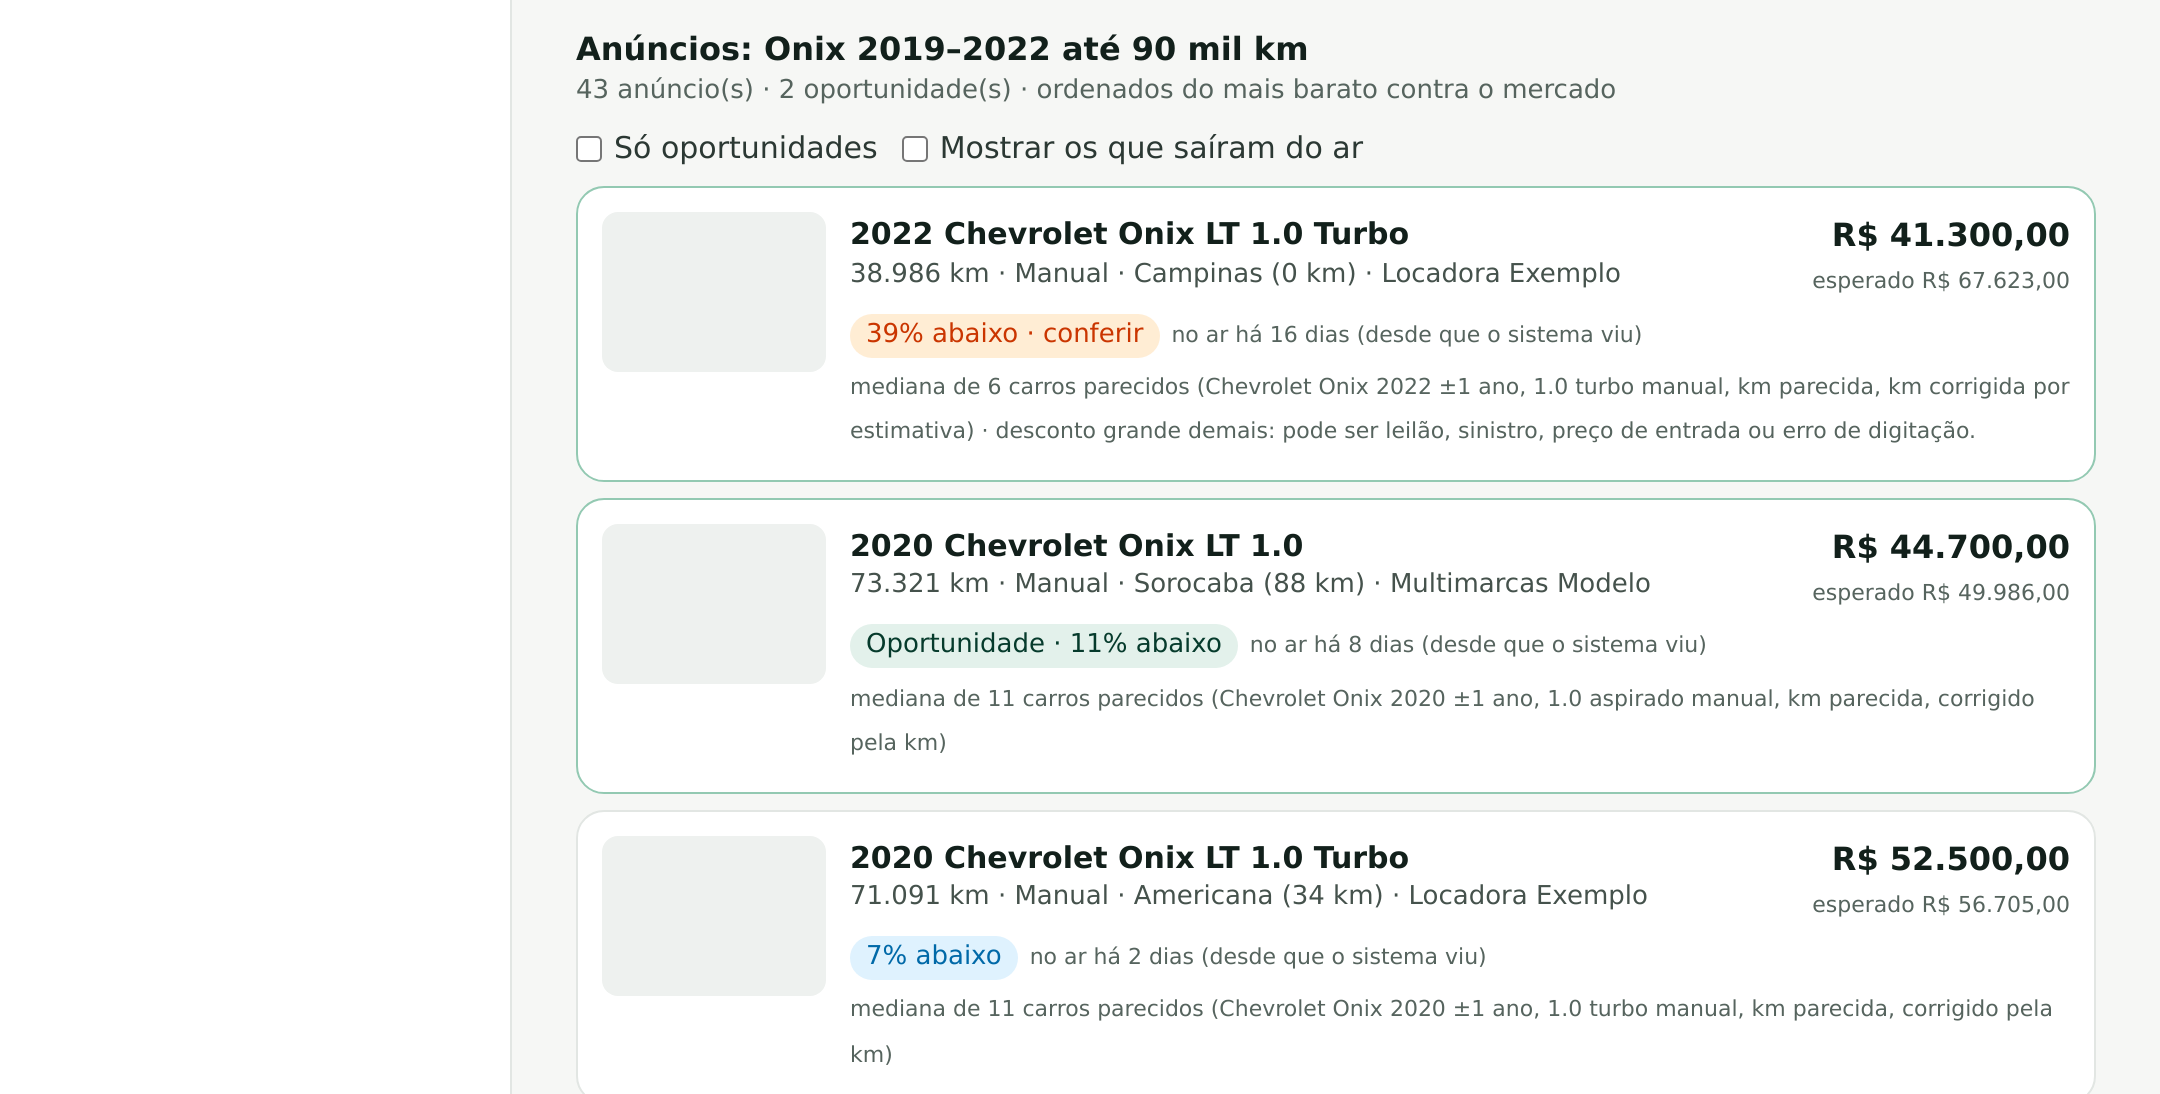
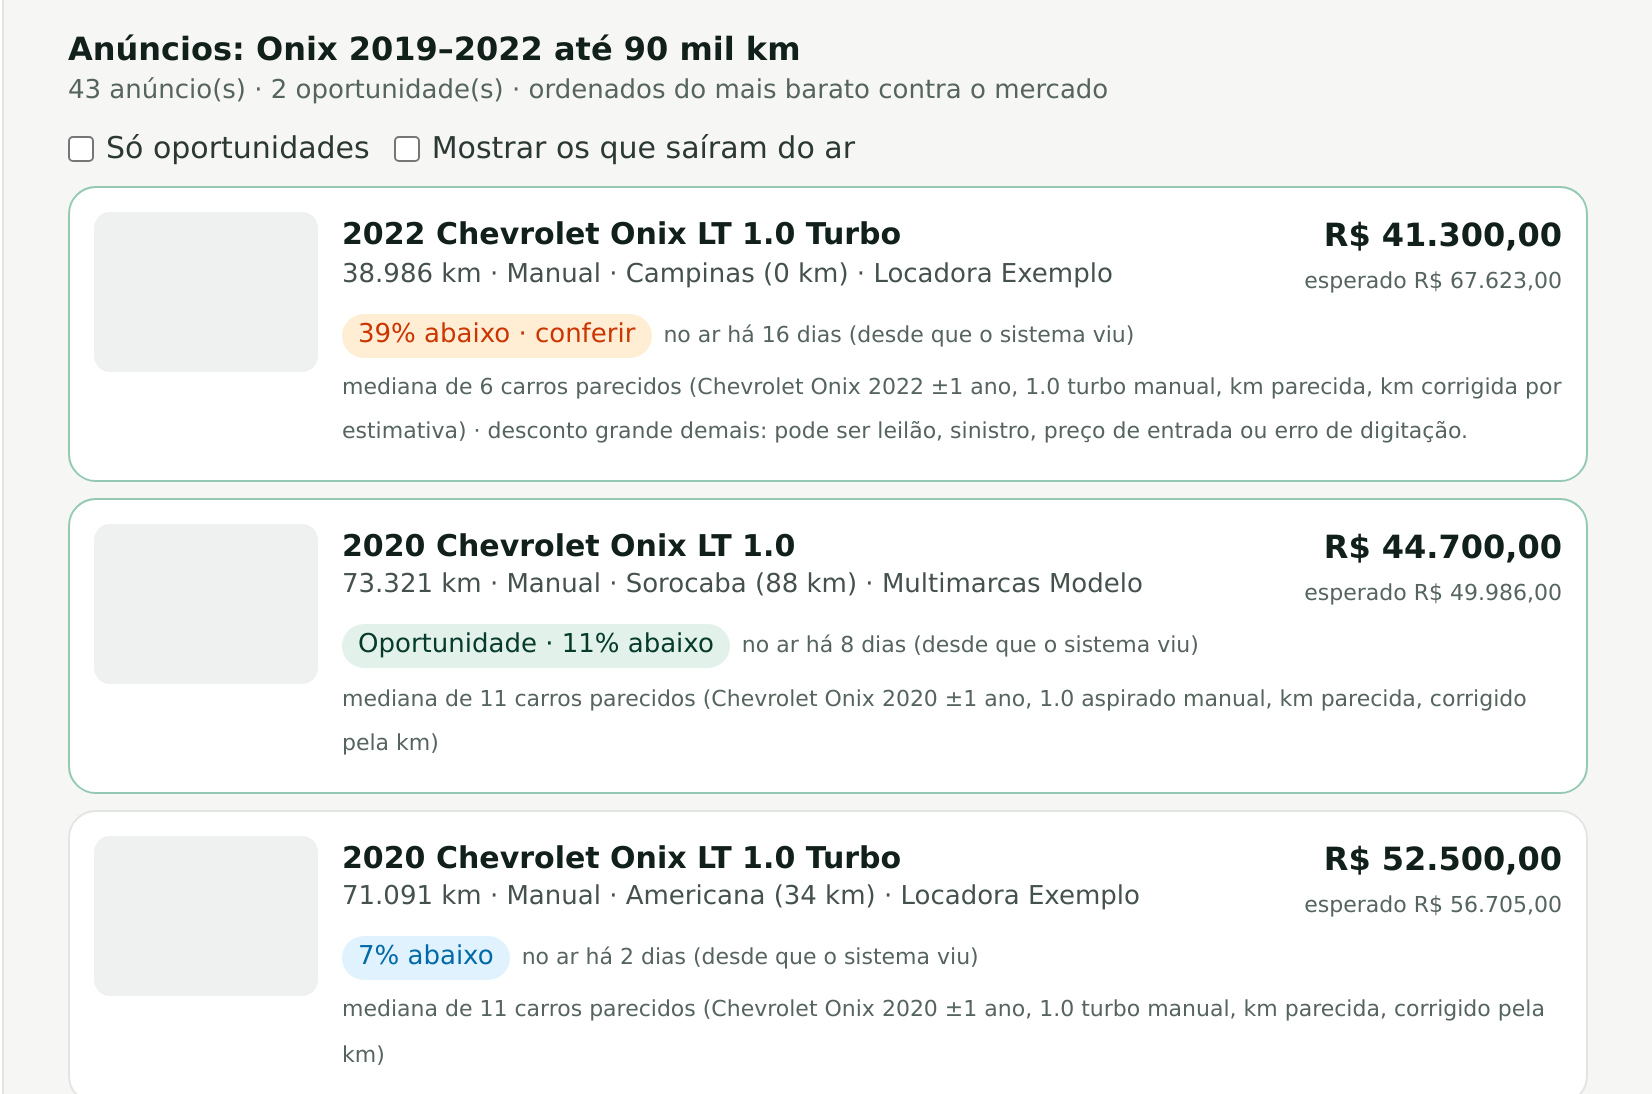
fix: estudo de caso sem JS, capa 16/10, foco do mapa e recorte do radar

diff --git a/src/scripts/rota.ts b/src/scripts/rota.ts
@@ -73,15 +73,17 @@ function iniciarRolagem(raiz: HTMLElement, placas: HTMLElement[]): () => void {
     });
   });
   mm.add('(max-width: 899px)', () => {
+    const atualizar = (st: ScrollTrigger) => {
+      const e = estadoDaRota(st.progress, n);
+      aplicar(raiz, placas, { ...e, posicao: posicaoReal(raiz, placas, e.posicao) });
+    };
     ScrollTrigger.create({
       trigger: raiz,
       start: 'top 60%',
       end: 'bottom 60%',
       scrub: 0.3,
-      onUpdate: (st) => {
-        const e = estadoDaRota(st.progress, n);
-        aplicar(raiz, placas, { ...e, posicao: posicaoReal(raiz, placas, e.posicao) });
-      },
+      onUpdate: atualizar,
+      onRefresh: atualizar,
     });
   });
   aplicar(raiz, placas, estadoDaRota(0, n));

diff --git a/src/styles/mapa.css b/src/styles/mapa.css
@@ -4,7 +4,7 @@
 .mapa-tracejado { fill: none; stroke: #3a4642; stroke-width: 2; stroke-dasharray: 8 7; }
 .mapa-faixa.is-ativa .mapa-tracejado { stroke: var(--signal); }
 .mapa-pacote { fill: var(--signal); }
-.mapa-no { cursor: pointer; outline: none; }
+.mapa-no { cursor: pointer; }
 .mapa-no rect { fill: var(--surface); stroke: var(--line-2); stroke-width: 2; transition: stroke 0.2s, fill 0.2s; }
 .mapa-no.is-destaque rect { stroke: #8a6b00; }
 .mapa-no.is-ativo rect, .mapa-no:focus-visible rect { stroke: var(--signal); fill: #262410; }

diff --git a/src/components/MapaArquitetura.tsx b/src/components/MapaArquitetura.tsx
@@ -28,7 +28,7 @@ export default function MapaArquitetura({ nos, faixas, rotulo, dica, todas }: Pr
   useEffect(() => {
     const el = caixa.current;
     if (!el) return;
-    const obs = new ResizeObserver(([e]) => setTransposto(e.contentRect.width < 640));
+    const obs = new ResizeObserver(([e]) => setTransposto(e.contentRect.width < 760));
     obs.observe(el);
     return () => obs.disconnect();
   }, []);
